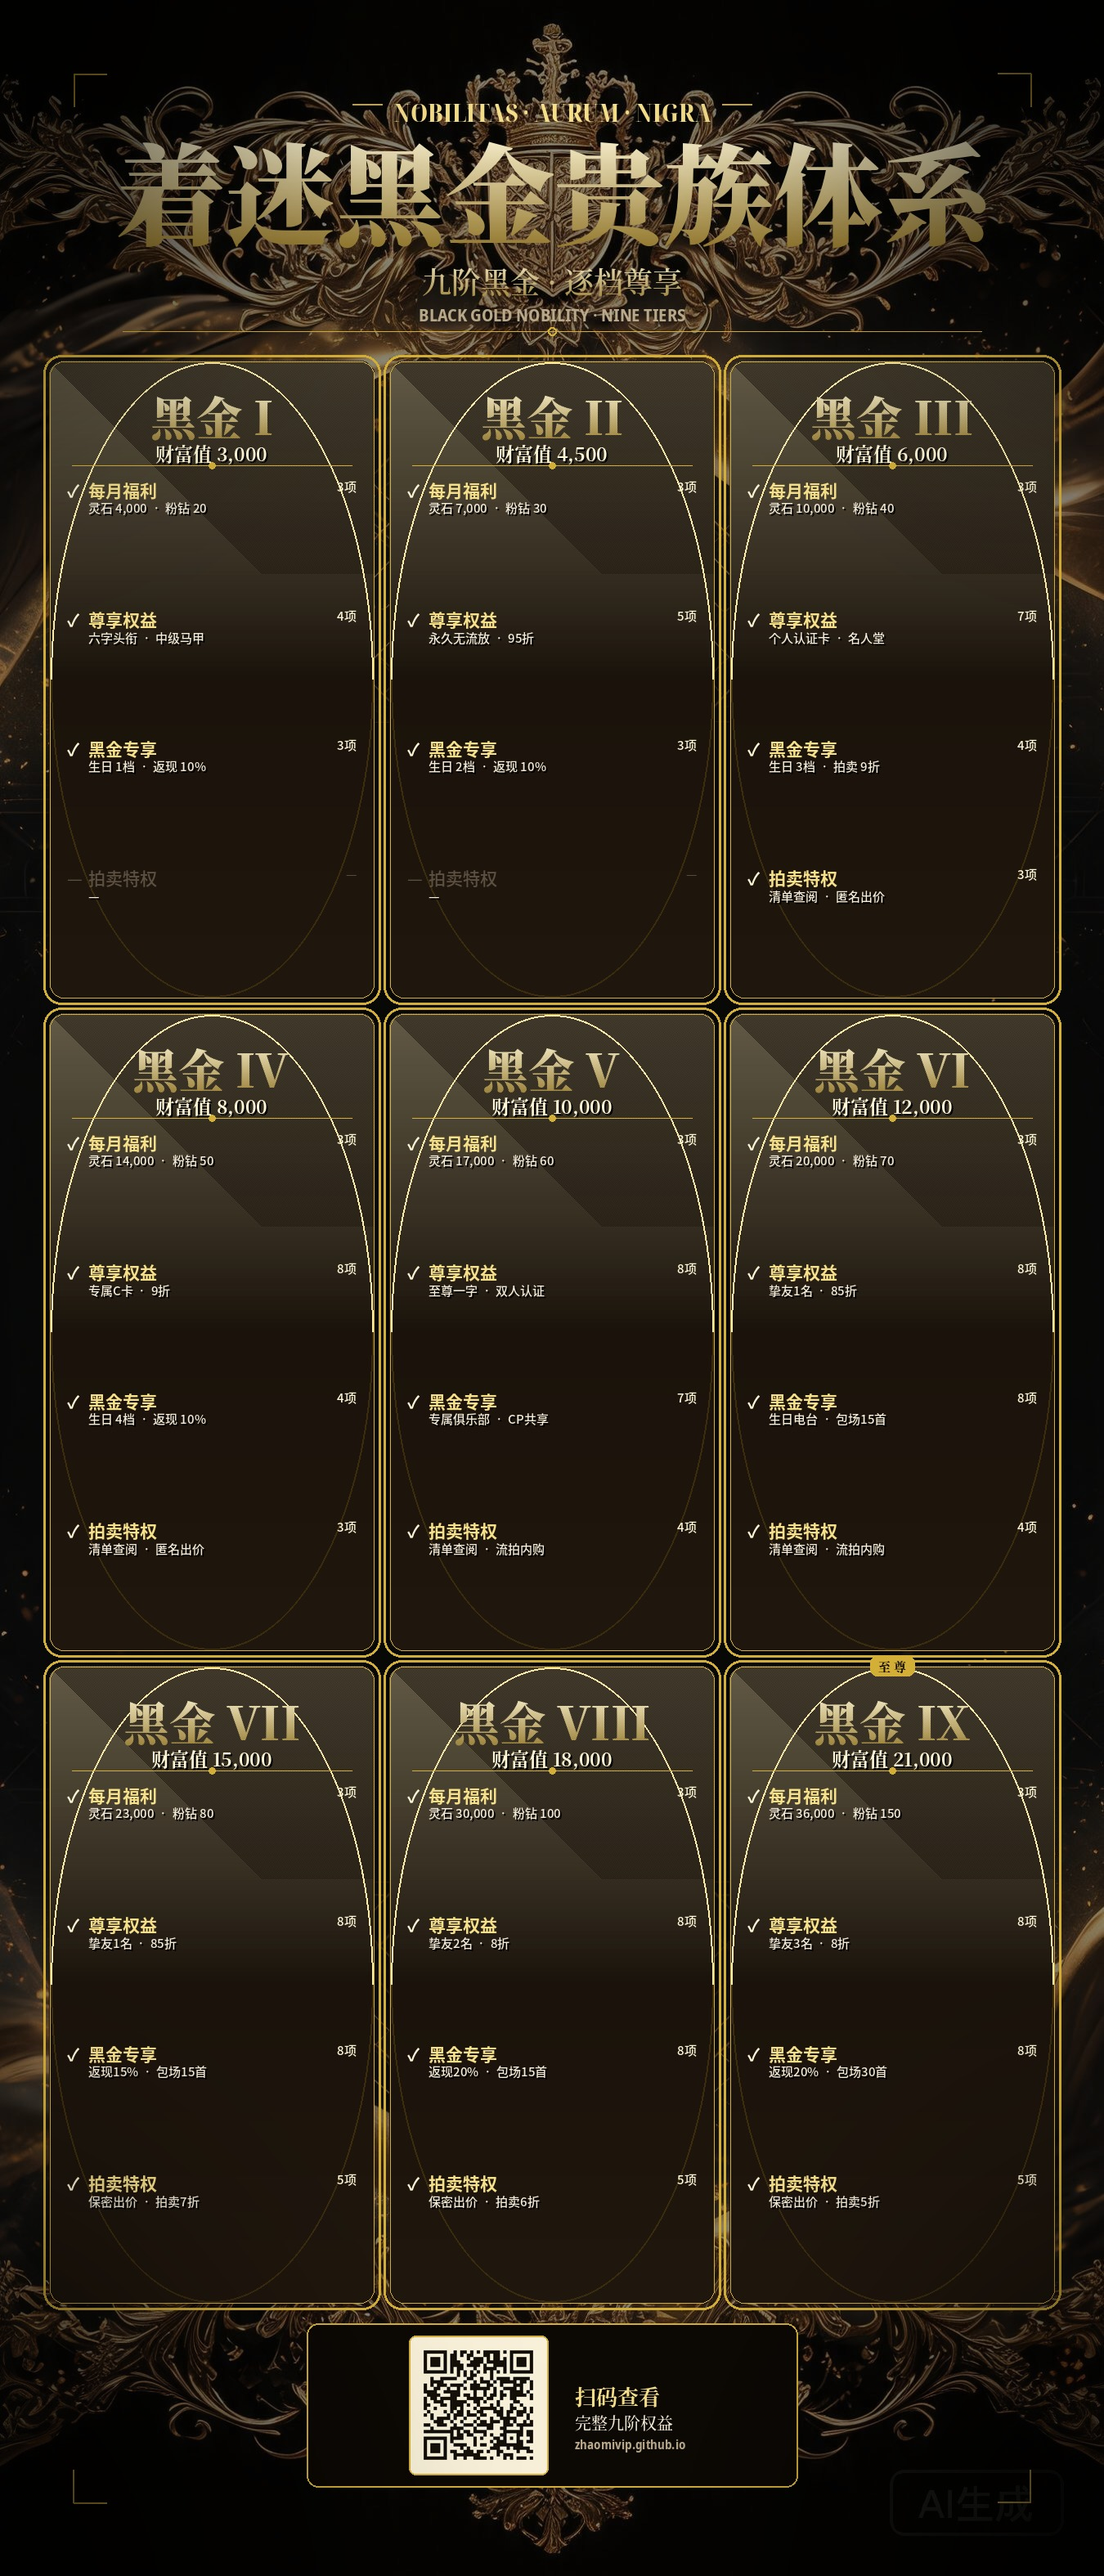
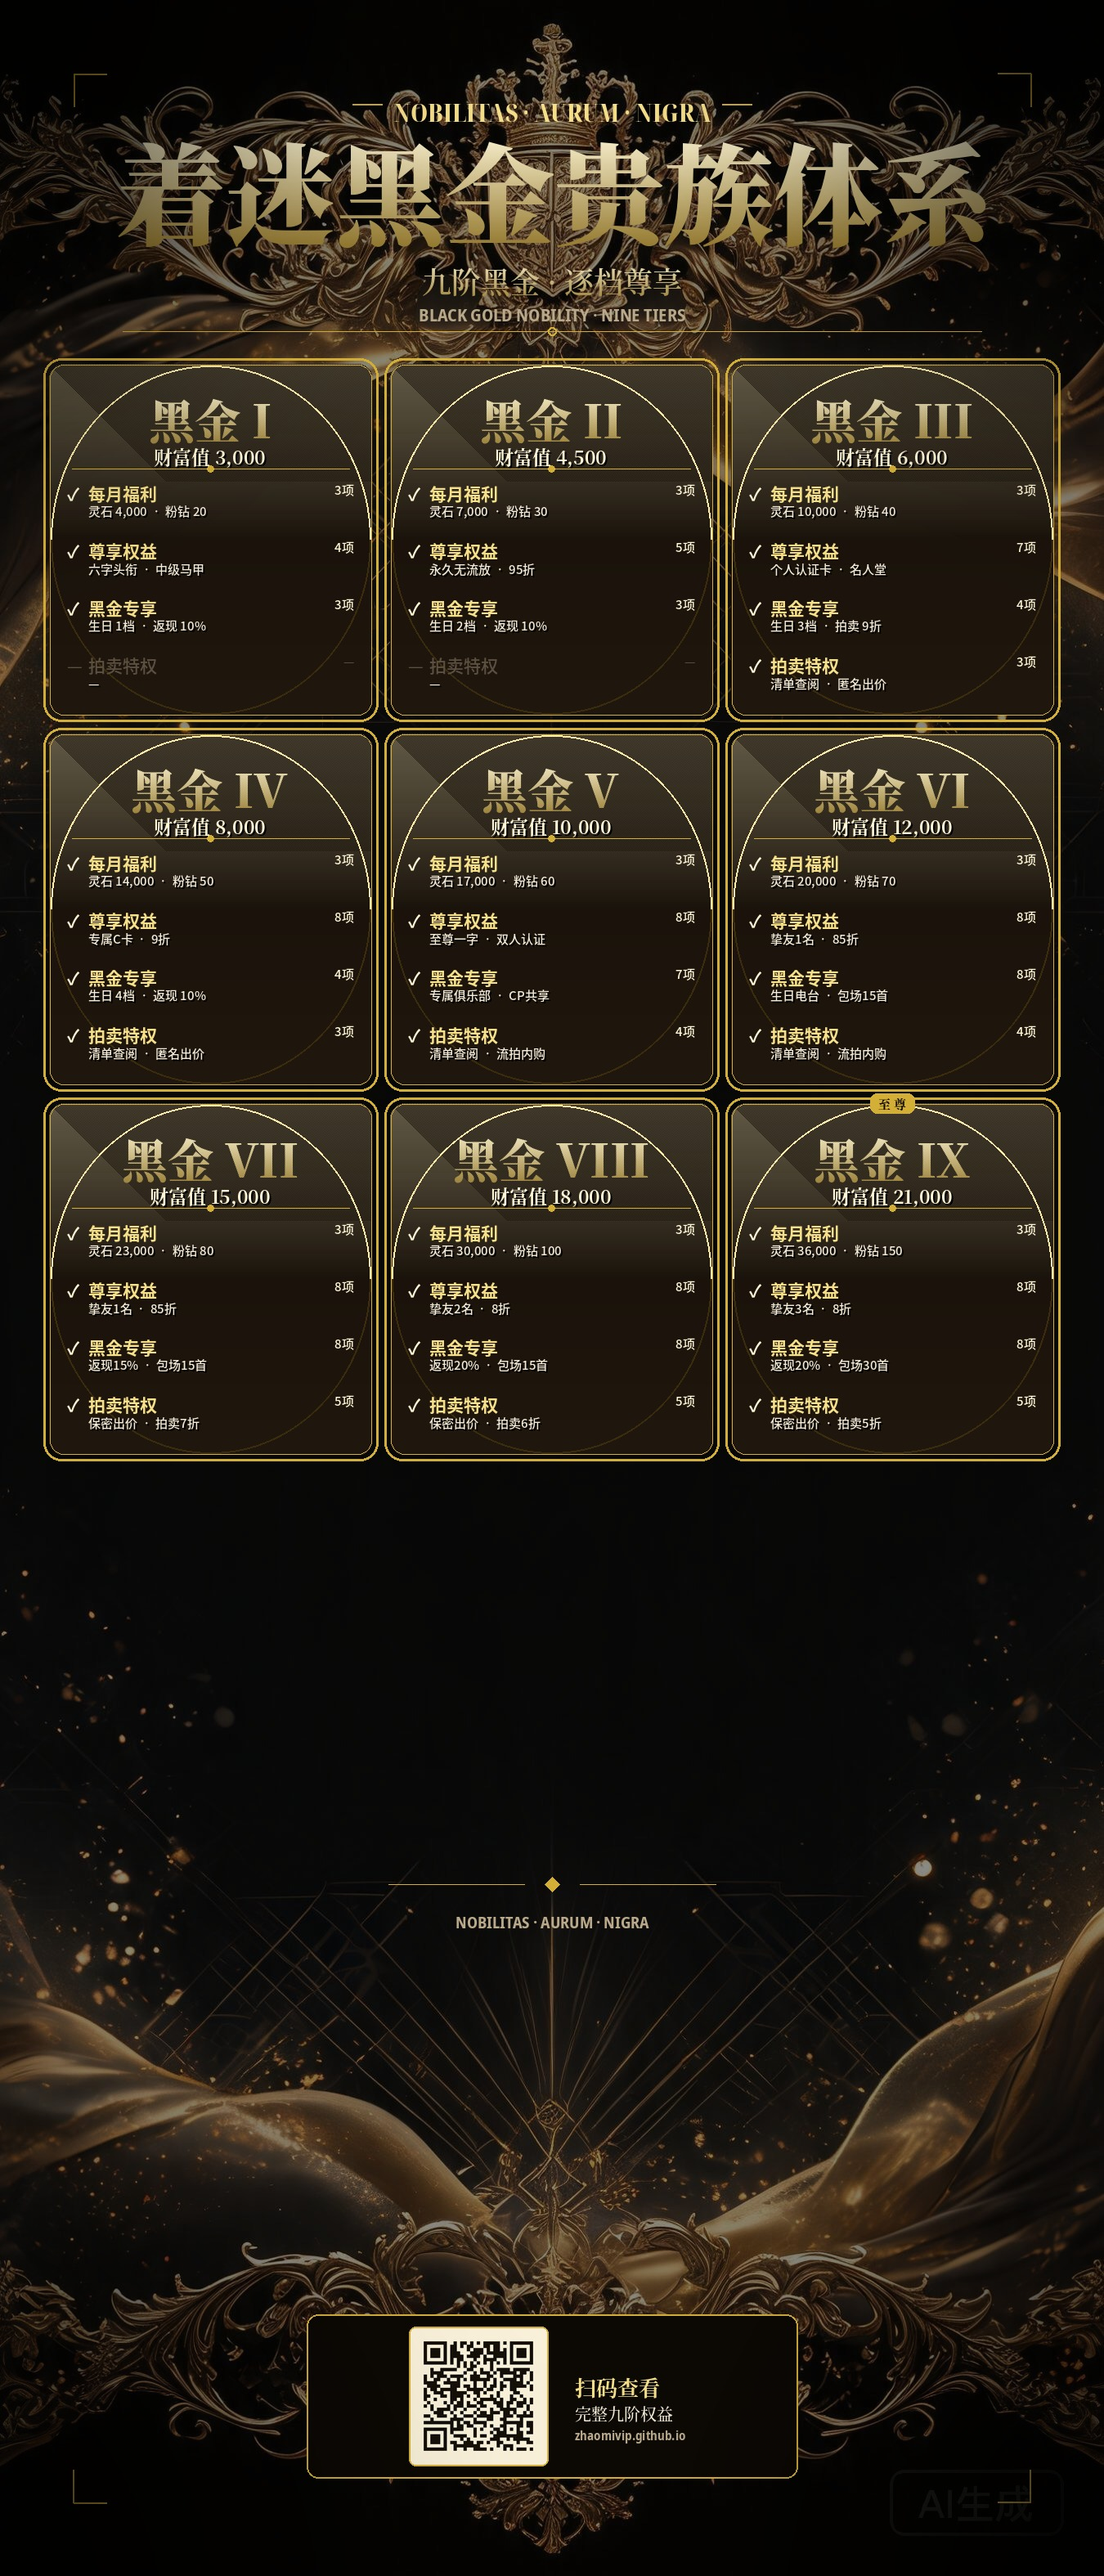
页面：副标题改为唯美花字英文 NOBILITAS·AURUM·NIGRA，左栏留出 16px 悬浮间隙；海报：卡片压缩为 395x430 偏方正，字体保持饱满，二维码贴底+金色装饰分隔

Changed region(s): [[0.0311, 0.1244, 0.9644, 0.9644]]

diff --git a/index.html b/index.html
@@ -40,13 +40,16 @@ header h1{
   -webkit-background-clip:text;background-clip:text;color:transparent;
   text-shadow:0 0 12px rgba(212,175,55,.3);
 }
-header .sub{font-family:var(--latin);letter-spacing:.32em;color:var(--gold);font-size:clamp(8px,1.2vw,10px);margin-top:2px;opacity:.85}
+header .sub{font-family:"Cormorant Garamond",var(--latin);font-style:italic;font-weight:600;letter-spacing:.36em;font-size:clamp(10px,1.6vw,14px);margin-top:4px;
+  background:linear-gradient(180deg,#fff7d6,var(--gold-bright) 55%,var(--gold) 80%,var(--gold-deep));
+  -webkit-background-clip:text;background-clip:text;color:transparent;
+  text-shadow:0 0 10px rgba(212,175,55,.25);opacity:.95}
 
 /* ===== 横向对照核心 ===== */
 .cmp-wrap{
   flex:1 1 auto; min-height:0;
   overflow-x:auto; overflow-y:auto;
-  margin:0;padding:0 6px;
+  margin:0;padding:0 10px 0 16px;
   -webkit-overflow-scrolling:touch;
 }
 .cmp-wrap::-webkit-scrollbar{height:8px;width:8px}
@@ -71,15 +74,16 @@ thead th.tier.lv-9 .rom{position:relative}
 thead th.tier.lv-9 .rom::after{content:"至尊";position:absolute;top:-7px;right:-4px;font-family:var(--serif);font-size:8px;letter-spacing:.1em;color:#1a130a;background:linear-gradient(180deg,var(--gold-bright),var(--gold));padding:1px 5px;border-radius:8px;font-weight:700}
 
 /* 左侧固定列 */
-th.label,td.label{position:sticky;left:0;z-index:4;background:#100b06;padding:3px 8px;text-align:left;border-right:1px solid var(--gold-line-strong);white-space:nowrap;width:118px;min-width:118px;max-width:118px}
+th.label,td.label{position:sticky;left:16px;z-index:4;background:#100b06;padding:3px 8px;text-align:left;border-right:1px solid var(--gold-line-strong);white-space:nowrap;width:118px;min-width:118px;max-width:118px;box-shadow:4px 0 10px -4px rgba(0,0,0,.6)}
 thead th.label{z-index:7;background:linear-gradient(180deg,#1c1409,#0e0a06);font-size:10.5px;color:var(--gold);letter-spacing:.1em}
 
 /* 类别行 */
 tbody tr.cat td.cat-label{
-  position:sticky;left:0;z-index:3;
+  position:sticky;left:16px;z-index:3;
   background:linear-gradient(90deg,rgba(40,28,10,.98),rgba(30,21,8,.96));
   padding:3px 10px;font-family:var(--serif);font-weight:700;color:var(--gold-bright);font-size:11px;letter-spacing:.1em;line-height:1.2;
   border-top:1px solid var(--gold-line-strong);border-bottom:1px solid var(--gold-line-strong);
+  box-shadow:4px 0 10px -4px rgba(0,0,0,.6)
 }
 tbody tr.cat td.cat-empty{
   background:linear-gradient(90deg,rgba(30,21,8,.85),rgba(18,12,6,.85));
@@ -130,7 +134,7 @@ main{display:flex;flex-direction:column;flex:1 1 auto;min-height:0}
 <body>
 <header>
   <h1>着迷黑金贵族体系</h1>
-  <div class="sub">NINE TIERS · 横向权益对照</div>
+  <div class="sub">NOBILITAS · AURUM · NIGRA</div>
 </header>
 
 <main>

diff --git a/make_poster.py b/make_poster.py
@@ -1,0 +1,274 @@
+# -*- coding: utf-8 -*-
+from PIL import Image, ImageDraw, ImageFont, ImageFilter
+import math
+
+W,H = 1350,3150
+SRC='/workspace/zmvip-site/assets/poster-bg-portrait2.jpg'
+QR='/workspace/zmvip-site/assets/qr.png'
+OUT='/workspace/zmvip-site/assets/poster_blackgold.jpg'
+
+FD='/usr/share/fonts/opentype/noto'
+def CJK(size,weight='Black'):
+    fn={'Black':'NotoSerifCJK-Black.ttc','Bold':'NotoSerifCJK-Bold.ttc','SemiBold':'NotoSerifCJK-SemiBold.ttc','Medium':'NotoSerifCJK-Medium.ttc','Regular':'NotoSerifCJK-Regular.ttc'}[weight]
+    return ImageFont.truetype(f'{FD}/{fn}',size)
+def SANS(size,weight='Regular'):
+    fn={'Regular':'NotoSansCJK-Regular.ttc','Medium':'NotoSansCJK-Medium.ttc','Bold':'NotoSansCJK-Bold.ttc'}[weight]
+    return ImageFont.truetype(f'{FD}/{fn}',size)
+def LATIN(size,style='display'):
+    path={'display':'/usr/share/fonts/truetype/noto/NotoSerifDisplay-CondensedExtraBold.ttf',
+          'sans':'/usr/share/fonts/truetype/noto/NotoSans-CondensedBold.ttf'}[style]
+    return ImageFont.truetype(path,size)
+
+GOLD_HI=(255,247,214); GOLD=(247,224,138); GOLD_DK=(138,109,31)
+CREAM=(244,236,216); MUTED=(185,169,138); DIM=(92,80,64)
+
+base=Image.open(SRC).convert('RGBA')
+canvas=base.copy()
+ov=Image.new('RGBA',(W,H),(8,6,3,120))
+canvas=Image.alpha_composite(canvas,ov)
+draw=ImageDraw.Draw(canvas,'RGBA')
+
+def rrect(xy,r,fill=None,outline=None,w=0):
+    draw.rounded_rectangle(xy,radius=r,fill=fill,outline=outline,width=w)
+
+def gold_grad_text(text,font):
+    big=Image.new('L',(4000,800),0); d=ImageDraw.Draw(big)
+    d.text((60,60),text,font=font,fill=255)
+    bb=big.getbbox() or (0,0,200,80)
+    l,t,r,b2=bb; m=14
+    l,t,r,b2=l-m,t-m,r+m,b2+m
+    w,h=r-l,b2-t
+    mask=big.crop((l,t,r,b2))
+    grad=Image.new('RGBA',(w,h))
+    for y in range(h):
+        tt=y/max(h-1,1)
+        cr=int(GOLD_HI[0]+(GOLD_DK[0]-GOLD_HI[0])*tt)
+        cg=int(GOLD_HI[1]+(GOLD_DK[1]-GOLD_HI[1])*tt)
+        cb=int(GOLD_HI[2]+(GOLD_DK[2]-GOLD_HI[2])*tt)
+        ImageDraw.Draw(grad).line([(0,y),(w,y)],fill=(cr,cg,cb,255))
+    grad.putalpha(mask)
+    return grad
+
+def gold_text(x,y,text,font,anchor='la'):
+    g=gold_grad_text(text,font); w,h=g.size
+    px,py={'la':(x,y),'ma':(x-w//2,y),'ra':(x-w,y),'lm':(x,y-h//2),'mm':(x-w//2,y-h//2),'rm':(x-w,y-h//2)}[anchor]
+    canvas.alpha_composite(g,(int(px),int(py)))
+
+def tsize(text,font):
+    l,t,r,b=font.getbbox(text); return r-l, b-t
+
+def txt(x,y,text,font,fill,anchor='la',shadow=False):
+    if shadow: draw.text((x+2,y+2),text,font=font,fill=(0,0,0,140),anchor=anchor)
+    draw.text((x,y),text,font=font,fill=fill,anchor=anchor)
+
+CX=W//2
+
+# ===== 标题区（放大）=====
+ey='NOBILITAS · AURUM · NIGRA'
+ef=LATIN(30,'display'); ew,eh=tsize(ey,ef)
+ey_y=116
+txt(CX,ey_y,ey,ef,GOLD,'ma')
+draw.line([(CX-ew//2-50,ey_y+eh//2),(CX-ew//2-14,ey_y+eh//2)],fill=(212,175,55,200),width=2)
+draw.line([(CX+ew//2+14,ey_y+eh//2),(CX+ew//2+50,ey_y+eh//2)],fill=(212,175,55,200),width=2)
+
+title='着迷黑金贵族体系'
+tf=CJK(134,'Black')
+ty=ey_y+eh+20
+gold_text(CX,ty,title,tf,'ma')
+
+sub='九阶黑金 · 逐档尊享'
+sf=CJK(36,'SemiBold'); sw,sh=tsize(sub,sf)
+gold_text(CX,ty+tsize(title,tf)[1]+14,sub,sf,'ma')
+
+lead='BLACK GOLD NOBILITY · NINE TIERS'
+lf=LATIN(22,'sans')
+ly=ty+tsize(title,tf)[1]+14+sh+18
+txt(CX,ly,lead,lf,MUTED,'ma')
+
+dy=ly+36
+draw.line([(150,dy),(W-150,dy)],fill=(212,175,55,120),width=1)
+draw.ellipse([(CX-5,dy-5),(CX+5,dy+5)],outline=(212,175,55,200),width=2)
+
+# ===== 九档卡片（3x3）=====
+# 每档按四大类提炼：(项数, [代表权益1, 代表权益2])
+TIERS=[
+  {'id':'I','wealth':3000,'group':'初阶',
+   'cats':[('每月福利',3,['灵石 4,000','粉钻 20']),
+           ('尊享权益',4,['六字头衔','中级马甲']),
+           ('黑金专享',3,['生日 1档','返现 10%']),
+           ('拍卖特权',0,['—'])]},
+  {'id':'II','wealth':4500,'group':'初阶',
+   'cats':[('每月福利',3,['灵石 7,000','粉钻 30']),
+           ('尊享权益',5,['永久无流放','95折']),
+           ('黑金专享',3,['生日 2档','返现 10%']),
+           ('拍卖特权',0,['—'])]},
+  {'id':'III','wealth':6000,'group':'中阶',
+   'cats':[('每月福利',3,['灵石 10,000','粉钻 40']),
+           ('尊享权益',7,['个人认证卡','名人堂']),
+           ('黑金专享',4,['生日 3档','拍卖 9折']),
+           ('拍卖特权',3,['清单查阅','匿名出价'])]},
+  {'id':'IV','wealth':8000,'group':'中阶',
+   'cats':[('每月福利',3,['灵石 14,000','粉钻 50']),
+           ('尊享权益',8,['专属C卡','9折']),
+           ('黑金专享',4,['生日 4档','返现 10%']),
+           ('拍卖特权',3,['清单查阅','匿名出价'])]},
+  {'id':'V','wealth':10000,'group':'高级',
+   'cats':[('每月福利',3,['灵石 17,000','粉钻 60']),
+           ('尊享权益',8,['至尊一字','双人认证']),
+           ('黑金专享',7,['专属俱乐部','CP共享']),
+           ('拍卖特权',4,['清单查阅','流拍内购'])]},
+  {'id':'VI','wealth':12000,'group':'高级',
+   'cats':[('每月福利',3,['灵石 20,000','粉钻 70']),
+           ('尊享权益',8,['挚友1名','85折']),
+           ('黑金专享',8,['生日电台','包场15首']),
+           ('拍卖特权',4,['清单查阅','流拍内购'])]},
+  {'id':'VII','wealth':15000,'group':'高级',
+   'cats':[('每月福利',3,['灵石 23,000','粉钻 80']),
+           ('尊享权益',8,['挚友1名','85折']),
+           ('黑金专享',8,['返现15%','包场15首']),
+           ('拍卖特权',5,['保密出价','拍卖7折'])]},
+  {'id':'VIII','wealth':18000,'group':'至尊',
+   'cats':[('每月福利',3,['灵石 30,000','粉钻 100']),
+           ('尊享权益',8,['挚友2名','8折']),
+           ('黑金专享',8,['返现20%','包场15首']),
+           ('拍卖特权',5,['保密出价','拍卖6折'])]},
+  {'id':'IX','wealth':21000,'group':'至尊',
+   'cats':[('每月福利',3,['灵石 36,000','粉钻 150']),
+           ('尊享权益',8,['挚友3名','8折']),
+           ('黑金专享',8,['返现20%','包场30首']),
+           ('拍卖特权',5,['保密出价','拍卖5折'])]},
+]
+
+# 卡片几何（固定卡片高度，更紧凑）
+GRID_TOP=dy+40
+COLS=3; ROWS=3
+MARGIN_X=60
+GAP=22
+CARD_W=(W-2*MARGIN_X-(COLS-1)*GAP)//COLS
+CARD_H=430
+GRID_BOTTOM=GRID_TOP+ROWS*CARD_H+(ROWS-1)*GAP
+
+def card_pos(i):
+    r,c=divmod(i,COLS)
+    x=MARGIN_X+c*(CARD_W+GAP)
+    y=GRID_TOP+r*(CARD_H+GAP)
+    return x,y
+
+def glass_card(x,y,w,h,i):
+    """绘制玻璃拟态卡片：半透明深色渐变 + 顶部高光 + 立体边框 + 外发光"""
+    # 外发光（高等级更强）
+    glow_alpha=int(30+i*14)
+    if glow_alpha>0:
+        rrect((x-7,y-7,x+w+7,y+h+7),22,outline=(212,175,55,glow_alpha),w=3)
+    # 基础层：半透明深色渐变
+    base=Image.new('RGBA',(w,h),(0,0,0,0))
+    bd=ImageDraw.Draw(base)
+    for yy in range(h):
+        tt=yy/max(h-1,1)
+        a=int(200-tt*35)
+        r=int(22+tt*10); g=int(16+tt*7); b=int(9+tt*5)
+        bd.line([(0,yy),(w,yy)],fill=(r,g,b,a))
+    # 顶部高光带（玻璃反光，更亮）
+    highlight=Image.new('RGBA',(w,h),(0,0,0,0))
+    hd=ImageDraw.Draw(highlight)
+    for yy in range(h//2):
+        tt=yy/(h//2)
+        a=int(70*(1-tt))
+        hd.line([(0,yy),(w,yy)],fill=(255,242,195,a))
+    # 斜向光带（更粗）
+    for k in range(0,w,2):
+        hd.line([(k,0),(k+h//3,h//3)],fill=(255,246,205,6),width=1)
+    base=Image.alpha_composite(base,highlight)
+    # 应用圆角遮罩
+    mask=Image.new('L',(w,h),0)
+    ImageDraw.Draw(mask).rounded_rectangle((0,0,w,h),radius=18,fill=255)
+    base.putalpha(mask)
+    canvas.alpha_composite(base,(x,y))
+    # 立体边框：上左亮、下右暗
+    bd2=ImageDraw.Draw(canvas,'RGBA')
+    bd2.arc((x+2,y+2,x+w-2,y+h-2),180,360,fill=(255,238,170,210),width=2)
+    bd2.arc((x+2,y+2,x+w-2,y+h-2),0,180,fill=(60,44,14,180),width=2)
+    bd2.rounded_rectangle((x+1,y+1,x+w-1,y+h-1),radius=17,outline=(212,175,55,150),width=1)
+
+for i,t in enumerate(TIERS):
+    x,y=card_pos(i)
+    cx=x+CARD_W//2
+    glass_card(x,y,CARD_W,CARD_H,i)
+    if i==8:
+        badge='至 尊'
+        bf=CJK(15,'Bold')
+        bw,bh=tsize(badge,bf)
+        rrect((cx-bw//2-10,y-12,cx+bw//2+10,y+12),8,fill=(212,175,55,255))
+        txt(cx,y,badge,bf,(10,7,3),'mm')
+
+    # 头部：黑金 Ⅰ（大字体饱满）
+    gold_text(cx,y+28,f'黑金 {t["id"]}',CJK(56,'Black'),'ma')
+    _,gnh=tsize(f'黑金 {t["id"]}',CJK(56,'Black'))
+    # 财富值（金色大字）
+    txt(cx,y+28+gnh+8,f'财富值 {t["wealth"]:,}',CJK(23,'Bold'),GOLD_HI,'ma',shadow=True)
+    # 分隔线
+    divy=y+28+gnh+8+32
+    draw.line([(x+28,divy),(x+CARD_W-28,divy)],fill=(212,175,55,140),width=1)
+    draw.ellipse([(cx-4,divy-4),(cx+4,divy+4)],fill=(212,175,55,220))
+
+    # 四大类权益（均匀分布）
+    cat_count=len(t['cats'])
+    avail_h=y+CARD_H-divy-20
+    per_h=avail_h//cat_count
+    by2=divy+14
+    for ci,(cat_name,count,reps) in enumerate(t['cats']):
+        cy=divy+14+ci*per_h
+        # 大类行：✓ 大类名 (N项)
+        if count>0:
+            txt(x+22,cy,'✓',SANS(21,'Bold'),GOLD_HI,'la')
+            txt(x+48,cy,cat_name,SANS(21,'Bold'),GOLD,'la')
+            txt(x+CARD_W-22,cy,f'{count}项',SANS(15,'Medium'),GOLD_HI,'ra')
+        else:
+            txt(x+22,cy,'—',SANS(21,'Regular'),DIM,'la')
+            txt(x+48,cy,cat_name,SANS(21,'Medium'),DIM,'la')
+            txt(x+CARD_W-22,cy,'—',SANS(15,'Regular'),DIM,'ra')
+        _,bh1=tsize(cat_name,SANS(21,'Bold'))
+        # 代表权益（小字）
+        rep='  ·  '.join(reps)
+        txt(x+48,cy+bh1+5,rep,SANS(15,'Medium'),CREAM,'la',shadow=True)
+
+# ===== 底部二维码（放大）=====
+qr_panel_h=200
+qr_top=H-qr_panel_h-120
+
+# ===== 装饰分隔（卡片与二维码之间的留白点缀）=====
+mid_y=(GRID_BOTTOM+qr_top)//2
+draw.line([(CX-200,mid_y),(CX-34,mid_y)],fill=(212,175,55,150),width=1)
+draw.line([(CX+34,mid_y),(CX+200,mid_y)],fill=(212,175,55,150),width=1)
+draw.polygon([(CX,mid_y-9),(CX+9,mid_y),(CX,mid_y+9),(CX-9,mid_y)],fill=(212,175,55,210))
+motto='NOBILITAS · AURUM · NIGRA'
+txt(CX,mid_y+32,motto,LATIN(20,'sans'),MUTED,'ma')
+
+rrect((W//2-300,qr_top,W//2+300,qr_top+qr_panel_h),14,fill=(12,8,4,180),outline=(212,175,55,160),w=2)
+qr_size=150
+qr_img=Image.open(QR).convert('RGBA').resize((qr_size,qr_size),Image.LANCZOS)
+qcx=W//2-90; qcy=qr_top+(qr_panel_h-qr_size)//2
+rrect((qcx-qr_size//2-10,qcy-10,qcx+qr_size//2+10,qcy+qr_size+10),8,fill=(248,240,216))
+canvas.alpha_composite(qr_img,(int(qcx-qr_size//2),int(qcy)))
+rrect((qcx-qr_size//2-10,qcy-10,qcx+qr_size//2+10,qcy+qr_size+10),8,outline=(212,175,55,255),w=2)
+tx=W//2+28
+txt(tx,qr_top+qr_panel_h//2-30,'扫码查看',CJK(26,'Bold'),GOLD,'la')
+txt(tx,qr_top+qr_panel_h//2+6,'完整九阶权益',CJK(20,'Medium'),CREAM,'la')
+txt(tx,qr_top+qr_panel_h//2+36,'zhaomivip.github.io',LATIN(16,'sans'),MUTED,'la')
+
+# 四角装饰
+def corner(cx,cy,sx,sy):
+    draw.line([(cx,cy),(cx+sx,cy)],fill=(212,175,55,200),width=2)
+    draw.line([(cx,cy),(cx,cy+sy)],fill=(212,175,55,200),width=2)
+corner(90,90,40,40); corner(W-90,90,-40,40); corner(90,H-90,40,-40); corner(W-90,H-90,-40,-40)
+
+# 暗角
+vig=Image.new('L',(W,H),0); vd=ImageDraw.Draw(vig)
+vd.ellipse([-200,-200,W+200,H+200],fill=255)
+vig=vig.filter(ImageFilter.GaussianBlur(180))
+dark=Image.new('RGBA',(W,H),(0,0,0,90))
+canvas=Image.composite(canvas,dark,vig).convert('RGB')
+canvas.save(OUT,quality=92)
+print('poster saved:',OUT,canvas.size)
+print(f'ratio {W/H:.4f} = 9/21 = {9/21:.4f}')
+print(f'card {CARD_W}x{CARD_H}, qr_panel {qr_panel_h}')
